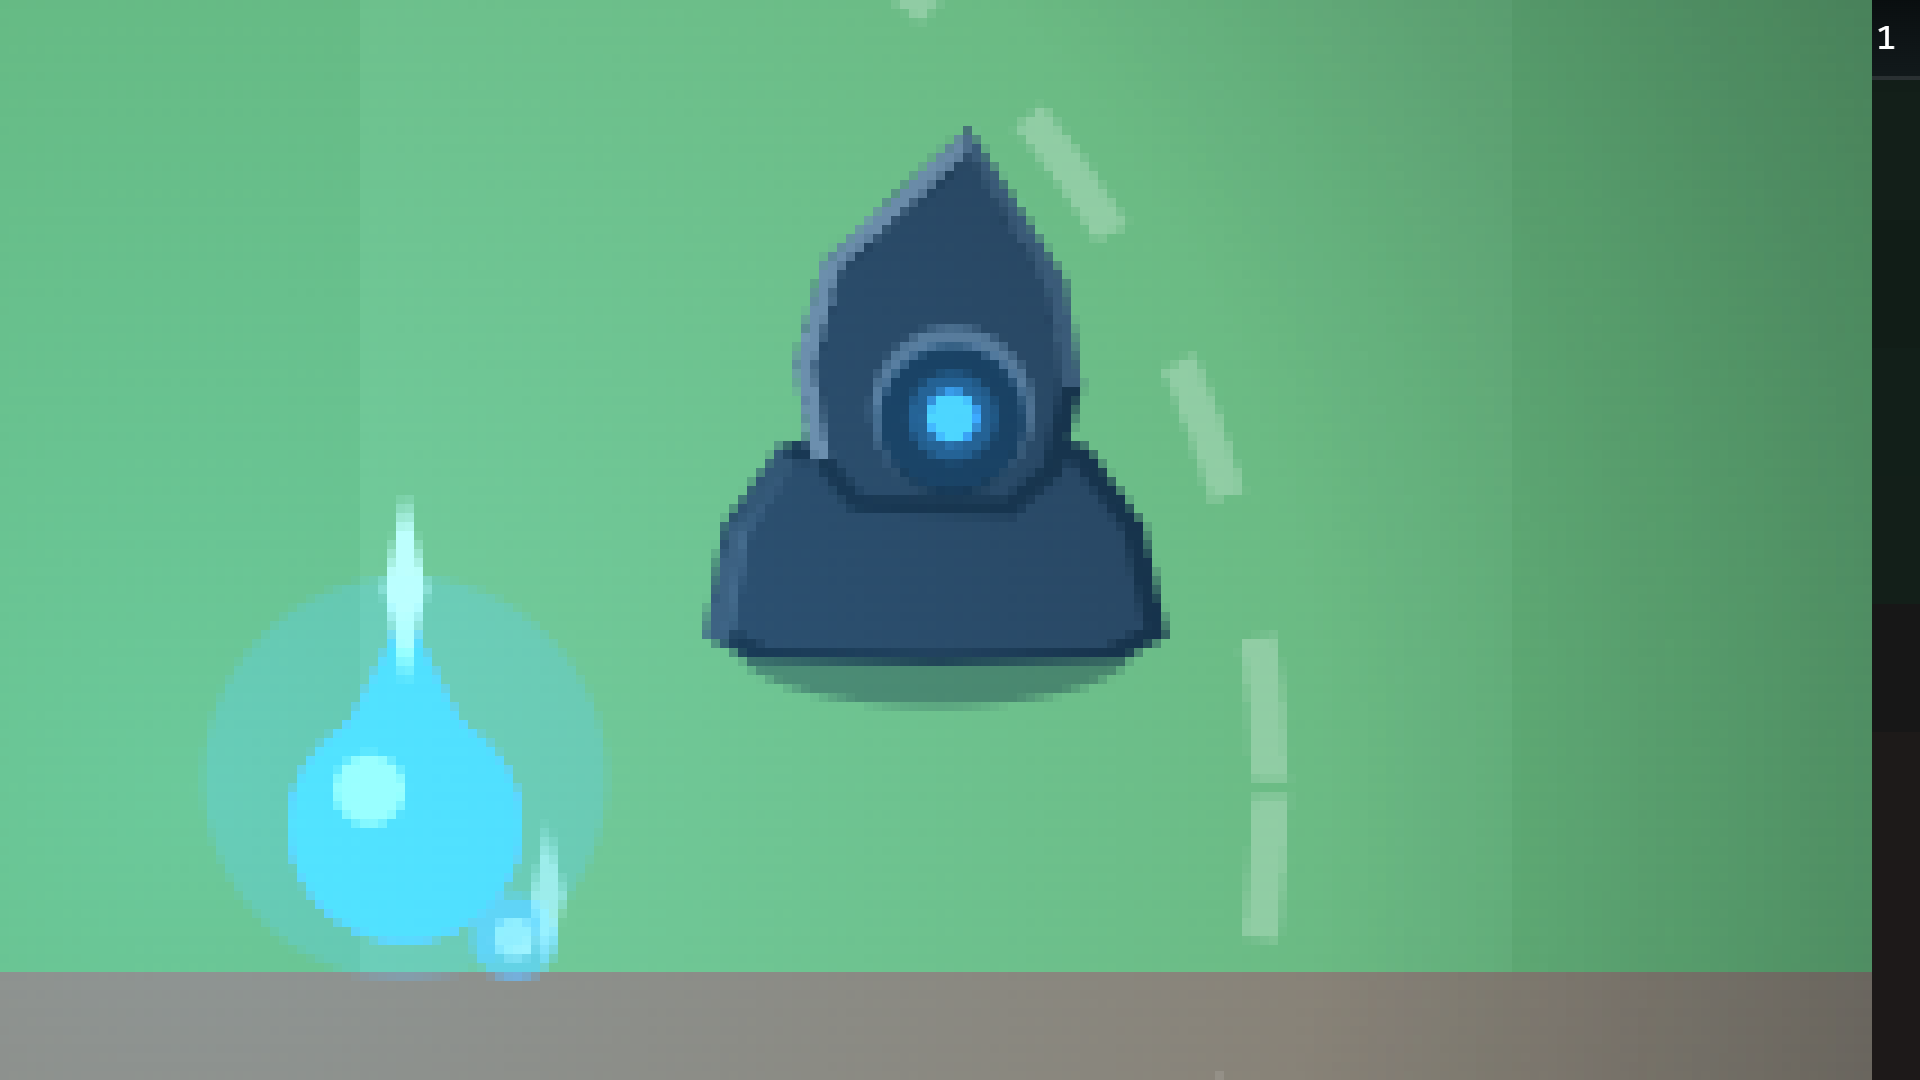
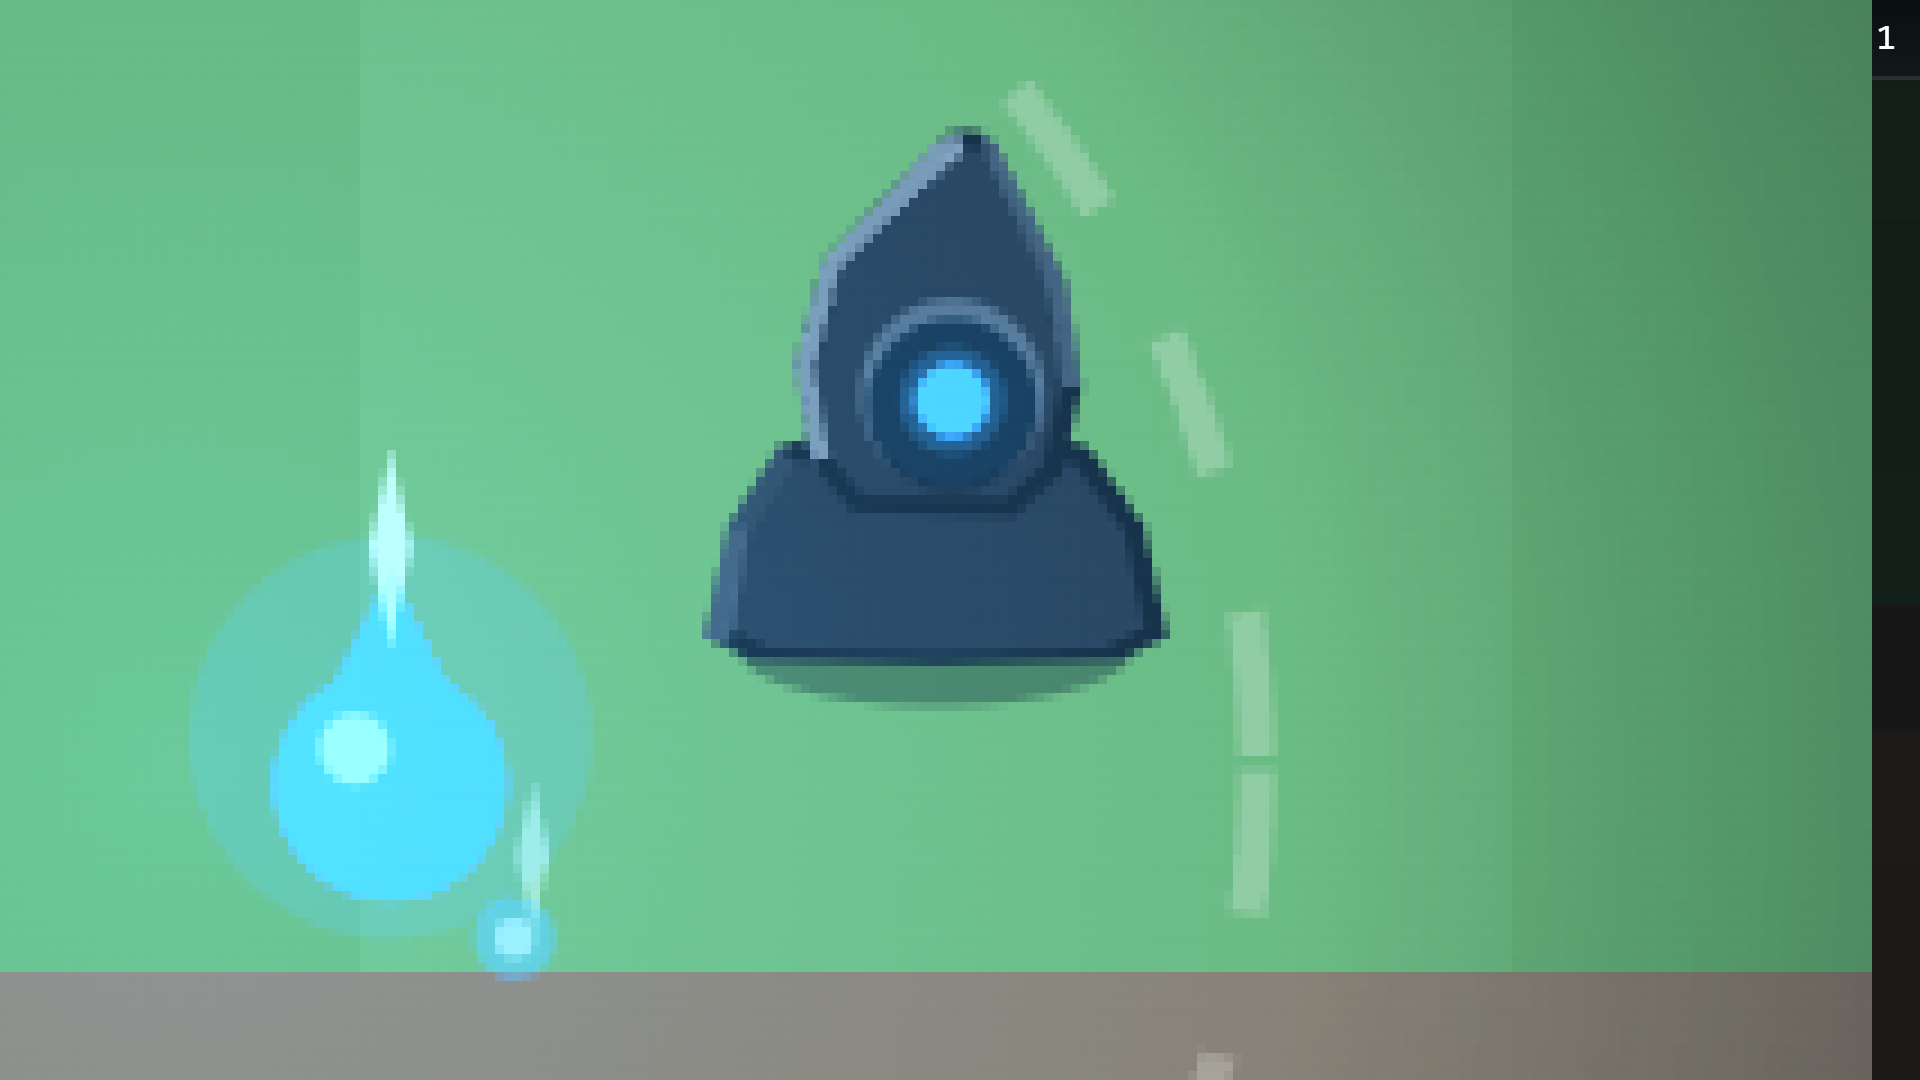
D-104 (suite) : visage agrandi, pointe de la capuche arrondie
Itération demandée par Xav après l'avoir vu en jeu — le reste est conservé tel
quel.

Le visage grossit d'environ 1,5 px : la boule, son halo ET l'ouverture de la
capuche ensemble, sinon la boule aurait mange son creux. Le groupe remonte de
0,5 unite au passage — agrandi en place, le bas de l'ouverture serait sorti
sous le bord de la capuche et aurait mordu le manteau.

La pointe de la capuche s'arrondit, elle seule. La calotte du corps a du
remonter vers celle du creux : une pointe arrondie laissait la bande de
contour former un ergot sombre au sommet, ce qu'une pointe vive cachait.

Donnees seules. Test D-104 vert (il n'epingle que des relations, donc il
accompagne le reglage au lieu de le refuser).

diff --git a/docs/DOC_suivi-dettes.md b/docs/DOC_suivi-dettes.md
@@ -203,7 +203,7 @@ Priorité : `P1` avant 07 · `P2` dans un lot léger · `P3` quand le système c
 | D-101 | **Les vignettes des écrans maître-détail flottaient dans leur tuile**, et le coin « équipé » coupait l'angle arrondi. Septième et dernier ticket de la passe d'interface | Les silhouettes d'items portent leur ombre propre depuis la charte du 21/09 — mais elle est dessinée **dans** le canvas de la vignette, et sur le fond uni d'une tuile elle ne porte plus : l'objet se retrouve posé sur rien. Remède : une **flaque d'ombre** en fond de la vignette (dégradé radial centré à 72 % de la hauteur, là où repose le bas d'un objet — centrée au milieu, elle aurait entouré l'objet et l'aurait fait flotter davantage), et 28 u → 31 u pour que l'objet occupe sa tuile. La vignette de la **fiche** ne la prend pas : posée sur un grand panneau, la même flaque y serait une tache. Le coin « équipé » passe de 14 u à 12 u et gagne son arête sombre — un second triangle décalé d'un pixel derrière lui, la même astuce que « glisser la même forme » ; sans elle, sa diagonale se lisait comme une coupure de la tuile et non comme une pièce posée dessus | P2 | **close le 22/09** — livrée ; verdict de Xav dû (`V-53`) |
 | D-102 | **La vitesse de déplacement au clavier paraît cumulative en diagonale** — trouvé **au ressenti** par Xav (22/09) : « Z = moveSpeed × 1, Z + D = moveSpeed × 2 ». **À NE PAS CORRIGER** : consigné pour une **session de diagnostic** dédiée, et Xav le juge utile comme *exploit de dev* en attendant | Lu dans le code, **pas mesuré en jeu** — c'est justement l'objet de la session à venir. `input/keyboard.js#instantane` rend `x` et `y` dans {−1, 0, 1} ; `input/input.js` les additionne et les borne **par axe** (`clamp(..., −1, 1)`), jamais en longueur ; puis `main.js:2030` applique la vitesse **à chaque axe séparément** (`move.x * vitesse`, `move.y * vitesse`). Une diagonale vaut donc un vecteur de longueur √2 : le héros y va **≈ 41 % plus vite**, pas deux fois (l'écart entre le chiffre ressenti et le chiffre lu fait partie de ce que la session doit trancher — un ressenti de « double » sur un gain réel de 41 % est en soi une information). Ce que la session devra couvrir, et qui dépasse le correctif évident : la **manette** n'a pas le défaut (un stick rend déjà une magnitude ≤ 1, disque et non carré), donc corriger le clavier **rapproche** les deux périphériques au lieu de les séparer ; le **joystick tactile** est à mesurer, il peut être dans un cas ou dans l'autre ; et le remède naturel (normaliser le vecteur quand sa longueur dépasse 1) est à poser **une seule fois**, dans la couche d'input, jamais dans le gameplay — sans quoi les monstres, le follet et le fantôme de Construction en auraient chacun une version | P2 | ouvert (**diagnostic à programmer**) |
 | D-103 | **Une fiche de Craft ne montre aucune image : ni celle des éclats, ni celle des ingrédients.** Relevé par Xav (22/09) en lisant `Q-49` — « c'est la raison pour laquelle il n'affiche pas l'image des éclats dans les pages de craft ». À considérer comme une **dette**, consignée sans corriger | La cause est plus large que les éclats, et c'est ce qui la rend intéressante. **Une ligne de fiche est une CHAÎNE** (`lignes: string[]`, `main.js#obtenirEntreesCraft` → `ui/ecran_fiches.js`) : une chaîne ne peut pas porter d'image, donc **aucune** ligne n'en montre — les ingrédients (« 2 Bois (tu en as 5) ») pas plus que le coût en éclats (« 15 éclats (tu en as 3) »). Seule la **vignette** de la fiche a une silhouette, et c'est celle de l'objet produit. Les éclats ajoutent par-dessus le manque de `Q-49` : même si une ligne savait afficher une image, il n'existe **aucune entrée de catalogue** où aller chercher la leur (leur silhouette existe pourtant depuis `D-96` : `visuel_icone_eclat`). Le remède touche donc **deux choses**, et dans cet ordre : (1) une ligne de fiche doit pouvoir être **composée** (des fragments texte + des fragments icône) plutôt qu'une chaîne — ce qui profite d'un coup aux ingrédients, aux coûts et à tout ce qui viendra ; (2) la monnaie doit avoir où déclarer son icône (`Q-49`). Contrainte qui ne change pas : tout texte composé passe par le contrôle de démarrage FR/EN (`clesTexteFiches`), donc une ligne mixte ne doit pas rouvrir la porte aux chaînes concaténées en dur | P2 | ouvert |
-| D-104 | **Le héros était le dernier objet vu du dessus dans un monde de trois quarts** : trois cercles concentriques, un pion de jeu de dames, là où le puits, les quatre stations et les dix items ont tous reçu la facture du 21/09. Demande de Xav (22/09), sur une photo de référence : **un personnage encapuchonné, vu de trois quarts, dont le visage est une boule lumineuse dans l'ombre de la capuche** — la couleur du follet quitte le corps et se concentre là | **Données seules**, aucune ligne de code du jeu. Treize primitives : manteau (creux + corps + deux slivers d'arête), capuche (creux + corps + liseré vif à gauche, sourd à droite), ouverture (une ellipse pâle **glissée vers le haut** puis l'ellipse noire par-dessus — le croissant qui dépasse EST le bord éclairé), et la lueur en trois cercles concentriques `teinte: true`. **Aucune forme nouvelle** : tout s'obtient en glissant ou en réduisant la même forme (leçon des stations). Ce qui rend la silhouette lisible à 14 px n'est pas le vêtement mais le **contraste** — un point lumineux dans une masse noire. `echelle` **inchangée** (0,643), donc la hitbox est identique au pixel près : contrairement à une station, la boîte de collision du héros ne dérive **pas** du dessin (`RAYON_HERO_BASE_PX × echelle`, `main.js#hitboxHeros`), redessiner ne déplace donc aucun mur. Reste une relation verrouillée par test : l'ourlet du manteau est calé sur la demi-boîte, le héros n'est **jamais plus large que ce qui entre en collision** (en hauteur il la dépasse librement — la boîte est son emprise au sol). Le contour clair que `save.js` documente depuis la Phase 1 (« rester lisible même dans la pénombre ») est repris par le **liseré de la capuche**. Trois itérations, chacune nommée au journal : capuche trop conique (un œil de Sauron), épaules en socle à angles vifs, puis le liseré remonté d'un cran. Test neuf **avec témoin** (le disque d'avant échoue), 112 fichiers verts ; scénario de capture neuf `tools/scenarios/heros_scene.mjs` (trois teintes de jour, la nuit, la Grotte neuve) parce que le banc visuel juge sur un fond neutre *choisi* — album `docs/captures/heros-2026-09-22/` | P2 | **close le 22/09** — livrée ; verdict de Xav dû (`V-54`) |
+| D-104 | **Le héros était le dernier objet vu du dessus dans un monde de trois quarts** : trois cercles concentriques, un pion de jeu de dames, là où le puits, les quatre stations et les dix items ont tous reçu la facture du 21/09. Demande de Xav (22/09), sur une photo de référence : **un personnage encapuchonné, vu de trois quarts, dont le visage est une boule lumineuse dans l'ombre de la capuche** — la couleur du follet quitte le corps et se concentre là | **Données seules**, aucune ligne de code du jeu. Treize primitives : manteau (creux + corps + deux slivers d'arête), capuche (creux + corps + liseré vif à gauche, sourd à droite), ouverture (une ellipse pâle **glissée vers le haut** puis l'ellipse noire par-dessus — le croissant qui dépasse EST le bord éclairé), et la lueur en trois cercles concentriques `teinte: true`. **Aucune forme nouvelle** : tout s'obtient en glissant ou en réduisant la même forme (leçon des stations). Ce qui rend la silhouette lisible à 14 px n'est pas le vêtement mais le **contraste** — un point lumineux dans une masse noire. `echelle` **inchangée** (0,643), donc la hitbox est identique au pixel près : contrairement à une station, la boîte de collision du héros ne dérive **pas** du dessin (`RAYON_HERO_BASE_PX × echelle`, `main.js#hitboxHeros`), redessiner ne déplace donc aucun mur. Reste une relation verrouillée par test : l'ourlet du manteau est calé sur la demi-boîte, le héros n'est **jamais plus large que ce qui entre en collision** (en hauteur il la dépasse librement — la boîte est son emprise au sol). Le contour clair que `save.js` documente depuis la Phase 1 (« rester lisible même dans la pénombre ») est repris par le **liseré de la capuche**. Quatre itérations, chacune nommée au journal : capuche trop conique (un œil de Sauron), épaules en socle à angles vifs, le liseré remonté d'un cran, puis — **sur retour de Xav en jeu** — le visage agrandi d'environ 1,5 px et la **pointe** de la capuche arrondie (elle seule ; le groupe du visage a dû remonter de 0,5 unité pour ne pas mordre le manteau, et la calotte du corps se rapprocher de celle du creux, faute de quoi le contour faisait un ergot sombre au sommet). Test neuf **avec témoin** (le disque d'avant échoue), 112 fichiers verts ; scénario de capture neuf `tools/scenarios/heros_scene.mjs` (trois teintes de jour, la nuit, la Grotte neuve) parce que le banc visuel juge sur un fond neutre *choisi* — album `docs/captures/heros-2026-09-22/` | P2 | **close le 22/09** — livrée ; verdict de Xav dû (`V-54`) |
 
 ## 6. Performance — registre des relevés
 

diff --git a/docs/JOURNAL_2026-09-22_heros-silhouette.md b/docs/JOURNAL_2026-09-22_heros-silhouette.md
@@ -61,10 +61,21 @@ silhouette dépasse librement : la boîte est son emprise au sol, pas sa taille.
    qu'on lise « il est dedans ».
 2. **Épaules en socle à angles vifs** → un pion d'échecs avec un col. Reprises
    en pente arrondie, du cou vers le bras.
-3. **Le liseré remonté d'un cran à la fin** : `save.js` documente depuis la
+3. **Le liseré remonté d'un cran** : `save.js` documente depuis la
    Phase 1 une intention explicite — « un contour clair pour rester lisible même
    dans la pénombre ». Le disque la portait par son cercle clair de 22 ; c'est
    maintenant le liseré de la capuche qui en a la charge.
+
+4. **Une itération de plus, demandée par Xav** après avoir vu le résultat en
+   jeu (« le reste on garde, c'est très bon ») : **le visage grossit** d'environ
+   1,5 px à l'écran — la boule, son halo et l'ouverture de la capuche
+   ensemble, sinon la boule aurait mangé son creux —, et **la pointe de la
+   capuche s'arrondit**, elle seule. Le groupe du visage remonte de 0,5 unité
+   au passage : agrandi en place, le bas de l'ouverture serait sorti sous le
+   bord de la capuche et aurait mordu le manteau. Et la calotte du **corps**
+   de la capuche a dû remonter vers celle du creux : une pointe arrondie
+   laissait la bande de contour former un **ergot sombre** au sommet, ce
+   qu'une pointe vive cachait.
 
 ## Vérifications
 
